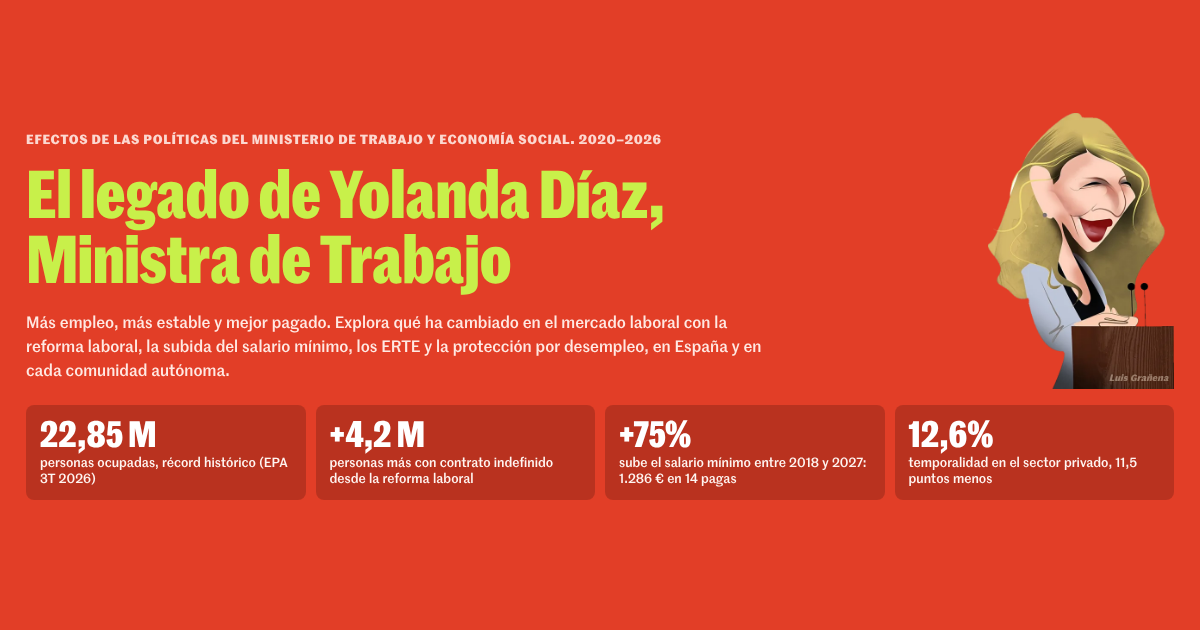
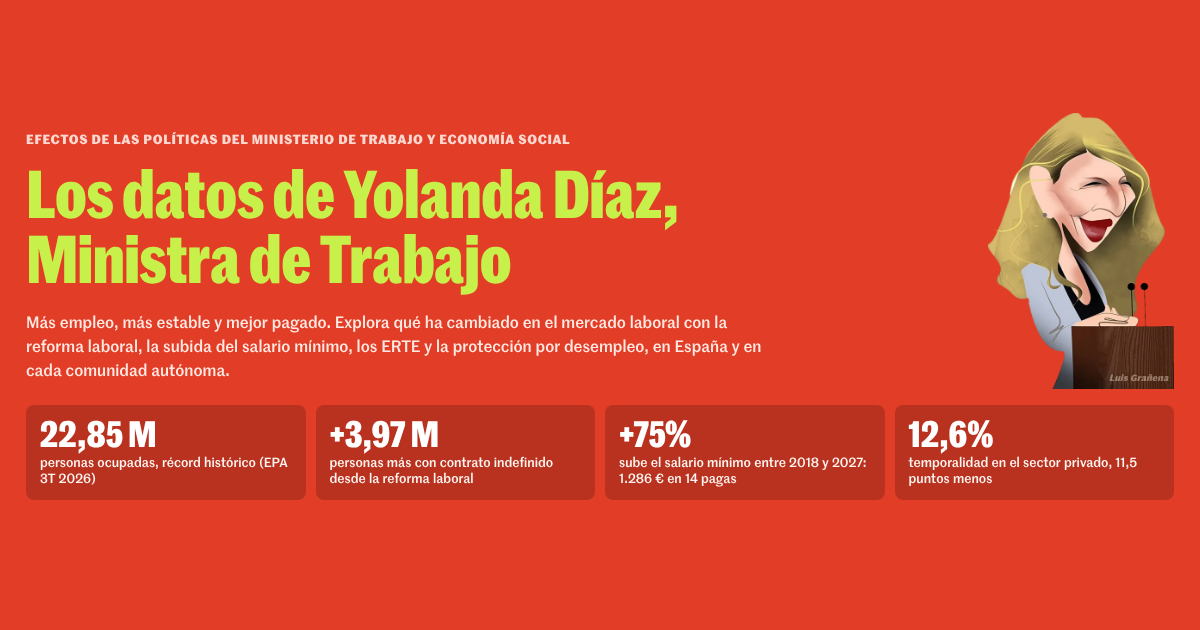
Add files via upload

Changed region(s): [[0.0308, 0.2714, 0.5858, 0.3619], [0.2775, 0.6635, 0.37, 0.7238], [0.4625, 0.2111, 0.555, 0.2413]]

diff --git a/index.html b/index.html
@@ -8,13 +8,13 @@
 <meta property="og:type" content="website">
 <meta property="og:title" content="Los datos de Yolanda Díaz, Ministra de Trabajo">
 <meta property="og:description" content="Más empleo, más estable y mejor pagado. Los efectos de las políticas del Ministerio de Trabajo y Economía Social (2020–2026), en España y en cada comunidad autónoma.">
-<meta property="og:url" content="https://segundogg.github.io/legado-yolanda-diaz/">
-<meta property="og:image" content="https://segundogg.github.io/legado-yolanda-diaz/og-image.png">
+<meta property="og:url" content="https://datosdeyolanda.es/">
+<meta property="og:image" content="https://datosdeyolanda.es/og-image.png">
 <meta property="og:image:width" content="1200">
 <meta property="og:image:height" content="630">
 <meta property="og:locale" content="es_ES">
 <meta name="twitter:card" content="summary_large_image">
-<meta name="twitter:image" content="https://segundogg.github.io/legado-yolanda-diaz/og-image.png">
+<meta name="twitter:image" content="https://datosdeyolanda.es/og-image.png">
 
 <style>
[1 lines of base64/hex data omitted]

diff --git a/README.md b/README.md
@@ -11,13 +11,13 @@ Portal informativo sobre los efectos de las políticas del Ministerio de Trabajo
 
 Se publica con GitHub Pages desde la rama `main`, carpeta raíz (`/`).
 
-Dirección: https://segundogg.github.io/legado-yolanda-diaz/
+Dirección: https://datosdeyolanda.es/
 
-Si el repositorio cambia de nombre, actualiza las etiquetas `og:url`, `og:image` y `twitter:image` de `index.html`: las redes sociales necesitan la dirección completa de la imagen.
+Si cambia el dominio, actualiza también el archivo `CNAME` y las etiquetas `og:url`, `og:image` y `twitter:image` de `index.html`: las redes sociales necesitan la dirección completa de la imagen.
 
 ## Fuentes
 
-INE (EPA, ECV, ETCL, Contabilidad Nacional), Ministerio de Trabajo y Economía Social, Ministerio de Inclusión, Seguridad Social y Migraciones, SEPE, Eurostat y BOE. Fichas territoriales del Ministerio de Trabajo con datos hasta el 3T 2026.
+INE (EPA, ECV, ETCL, Contabilidad Nacional), Ministerio de Trabajo y Economía Social, Ministerio de Inclusión, Seguridad Social y Migraciones, SEPE, Eurostat y BOE.
 
 ## Créditos
 
